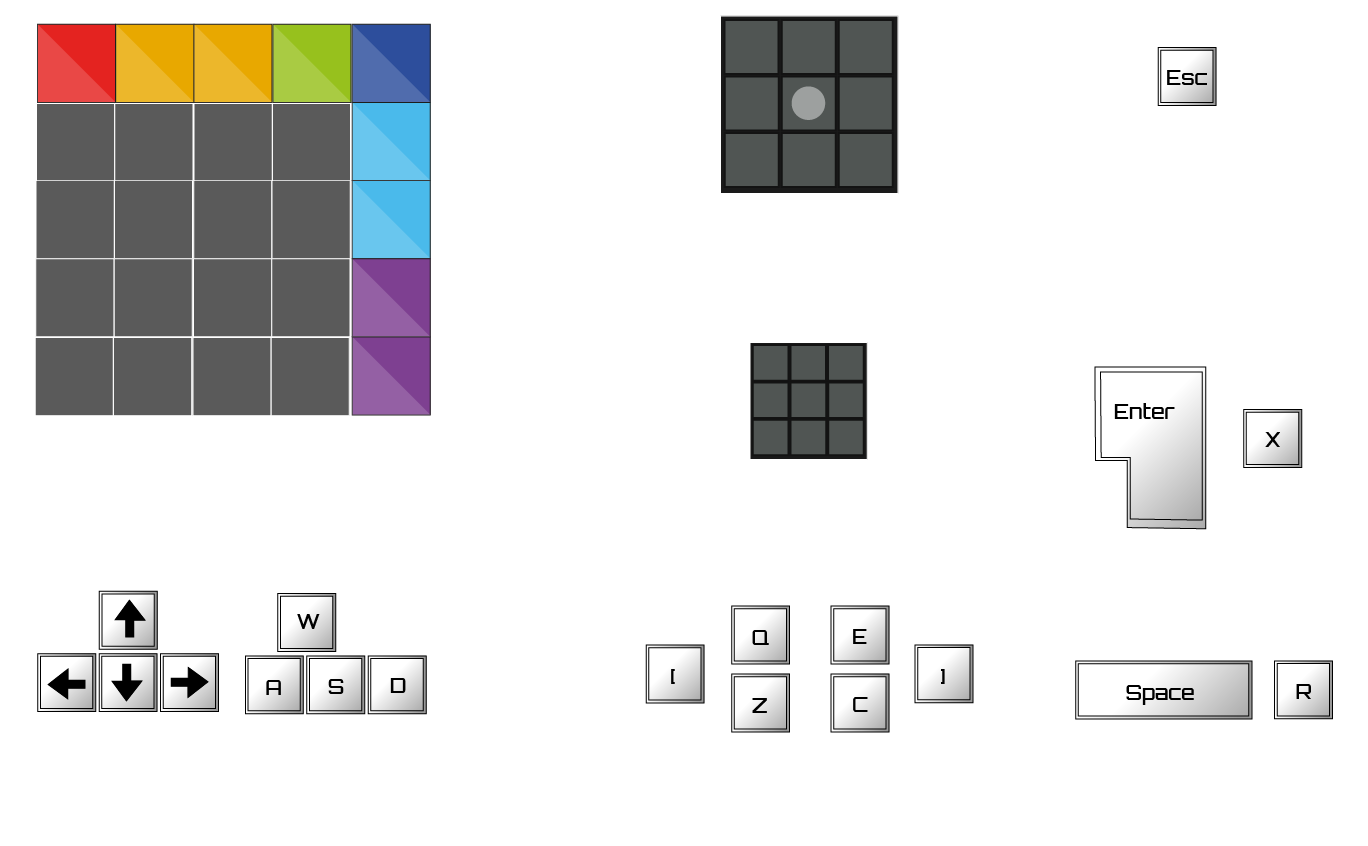
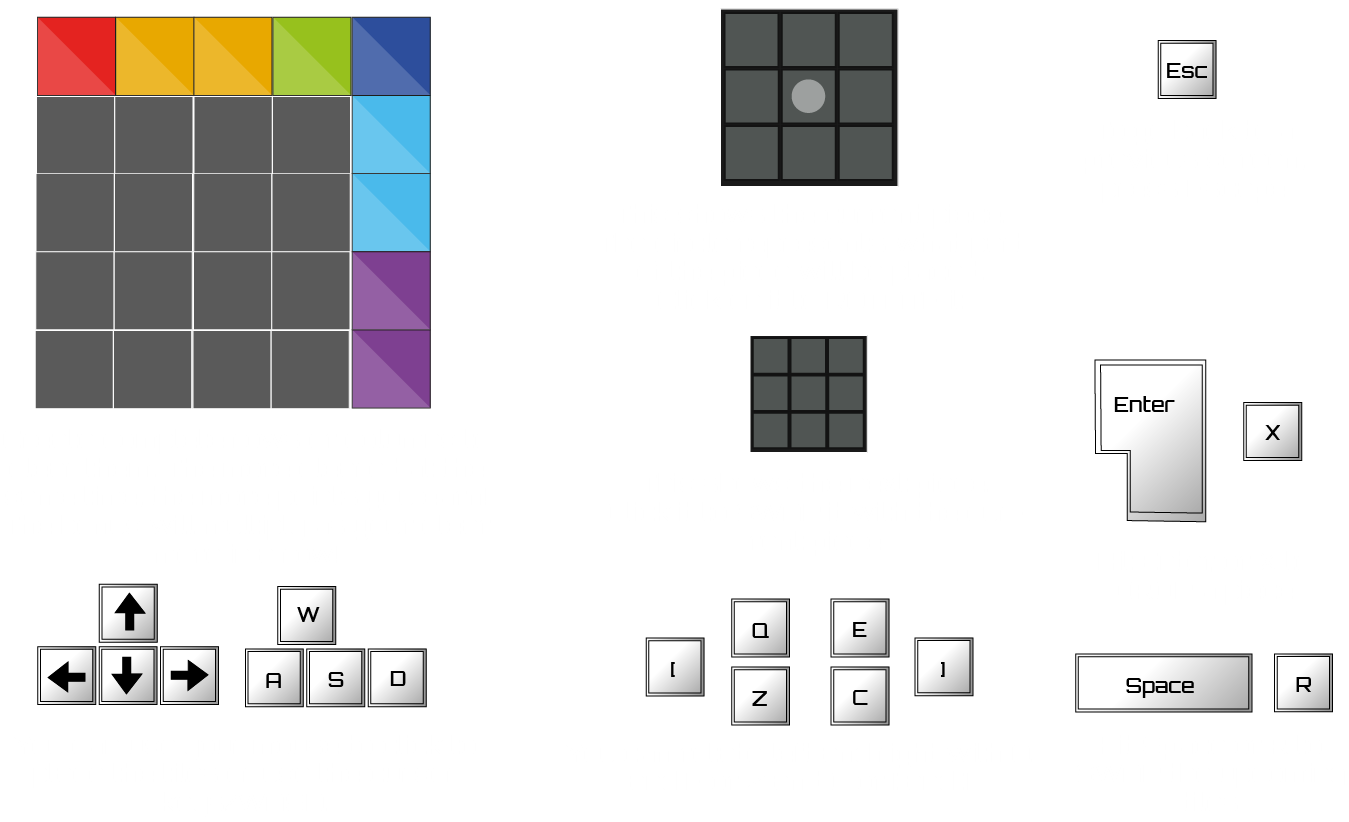
Cropped Instructions.png

diff --git a/src/main/resources/style/game.css b/src/main/resources/style/game.css
@@ -167,10 +167,6 @@
     -fx-font-weight: 700;
 }
 
-.deadscore {
-    -fx-strikethrough: true;
-}
-
 .points {
 }
 

diff --git a/src/main/java/uk/ac/soton/comp1206/scene/InstructionsScene.java b/src/main/java/uk/ac/soton/comp1206/scene/InstructionsScene.java
@@ -1,5 +1,6 @@
 package uk.ac.soton.comp1206.scene;
 
+import javafx.geometry.Insets;
 import javafx.geometry.Pos;
 import javafx.scene.image.ImageView;
 import javafx.scene.input.KeyCode;
@@ -17,13 +18,11 @@ import uk.ac.soton.comp1206.ui.GameWindow;
 import uk.ac.soton.comp1206.ui.Multimedia;
 
 public class InstructionsScene extends BaseScene {
-
     private static final Logger logger = LogManager.getLogger(InstructionsScene.class);
 
     public InstructionsScene(GameWindow gameWindow) {
         super(gameWindow);
     }
-
 
     /**
      * Initialize the scene
@@ -46,53 +45,61 @@ public class InstructionsScene extends BaseScene {
     @Override
     public void build() {
         logger.info("Building " + this.getClass().getName());
+
         root = new GamePane(this.gameWindow.getWidth(), this.gameWindow.getHeight());
 
-        var instructions = new StackPane();
-        instructions.setMaxWidth(gameWindow.getWidth());
-        instructions.setMaxHeight(gameWindow.getHeight());
-        instructions.getStyleClass().add(SettingsScene.getStyle());
-        root.getChildren().add(instructions);
+        var instructionsPane = new StackPane();
+        instructionsPane.setMaxWidth(gameWindow.getWidth());
+        instructionsPane.setMaxHeight(gameWindow.getHeight());
+        instructionsPane.getStyleClass().add(SettingsScene.getStyle());
+        root.getChildren().add(instructionsPane);
 
-        var pane = new BorderPane();
-        instructions.getChildren().add(pane);
+        var mainPane = new BorderPane();
+        instructionsPane.getChildren().add(mainPane);
 
-        var vBox = new VBox();
-        vBox.setAlignment(Pos.TOP_CENTER);
-        BorderPane.setAlignment(vBox, Pos.CENTER);
-        pane.setCenter(vBox);
+        /*
+         Top
+         */
+        var topBar = new HBox();
+        topBar.setAlignment(Pos.CENTER);
+        BorderPane.setMargin(topBar, new Insets(10, 0, 0, 0));
+        mainPane.setTop(topBar);
 
-        var heading = new Text("Instructions");
-        heading.getStyleClass().add("title");
-        vBox.getChildren().add(heading);
+        var instructionsText = new Text("Instructions");
+        instructionsText.getStyleClass().add("title");
+        topBar.getChildren().add(instructionsText);
+
+        /*
+        Center
+         */
+        var centerBox = new VBox();
+        centerBox.setAlignment(Pos.CENTER);
+        mainPane.setCenter(centerBox);
 
         ImageView image = new ImageView(Multimedia.getImage("Instructions.png"));
-        image.setFitHeight(350);
+        image.setFitHeight(340);
         image.setPreserveRatio(true);
-        vBox.getChildren().add(image);
 
-        var pieces = new Text("Game Pieces");
-        pieces.getStyleClass().add("heading");
-        vBox.getChildren().add(pieces);
+        var piecesText = new Text("Game Pieces");
+        piecesText.getStyleClass().add("heading");
 
-        VBox grid = new VBox();
+        var grid = new VBox();
         grid.setAlignment(Pos.CENTER);
         grid.setSpacing(10);
 
+        // Dynamically generated game pieces
         for (int x = 0; x < 3; x++) {
-            HBox hBox = new HBox();
+            var hBox = new HBox();
             grid.getChildren().add(hBox);
             hBox.setAlignment(Pos.CENTER);
-            int y = 0;
             hBox.setSpacing(10);
-            while (y < 5) {
-                PieceBoard pieceBoard = new PieceBoard( 50, 50);
+            for (int y = 0; y < 5; y++) {
+                PieceBoard pieceBoard = new PieceBoard(50, 50);
                 GamePiece gamePiece = GamePiece.createPiece(x * 5 + y);
                 pieceBoard.showPiece(gamePiece);
                 hBox.getChildren().add(pieceBoard);
-                y++;
             }
         }
-        vBox.getChildren().add(grid);
+        centerBox.getChildren().addAll(image, piecesText, grid);
     }
 }

diff --git a/src/main/java/uk/ac/soton/comp1206/component/GameBlock.java b/src/main/java/uk/ac/soton/comp1206/component/GameBlock.java
@@ -164,15 +164,15 @@ public class GameBlock extends Canvas {
     private void paintEmpty() {
         var gc = getGraphicsContext2D();
 
-        //Clear
+        // Clear
         gc.clearRect(0,0,width,height);
 
-        //Fill
-        gc.setFill(Color.WHITE);
-        gc.fillRect(0,0, width, height);
+        // Fill
+        gc.setFill(Color.rgb(0, 0, 0, 0.3));
+        gc.fillRect(0, 0, width, height);
 
-        //Border
-        gc.setStroke(Color.BLACK);
+        // Border
+        gc.setStroke(Color.WHITE);
         gc.strokeRect(0,0,width,height);
     }
 
